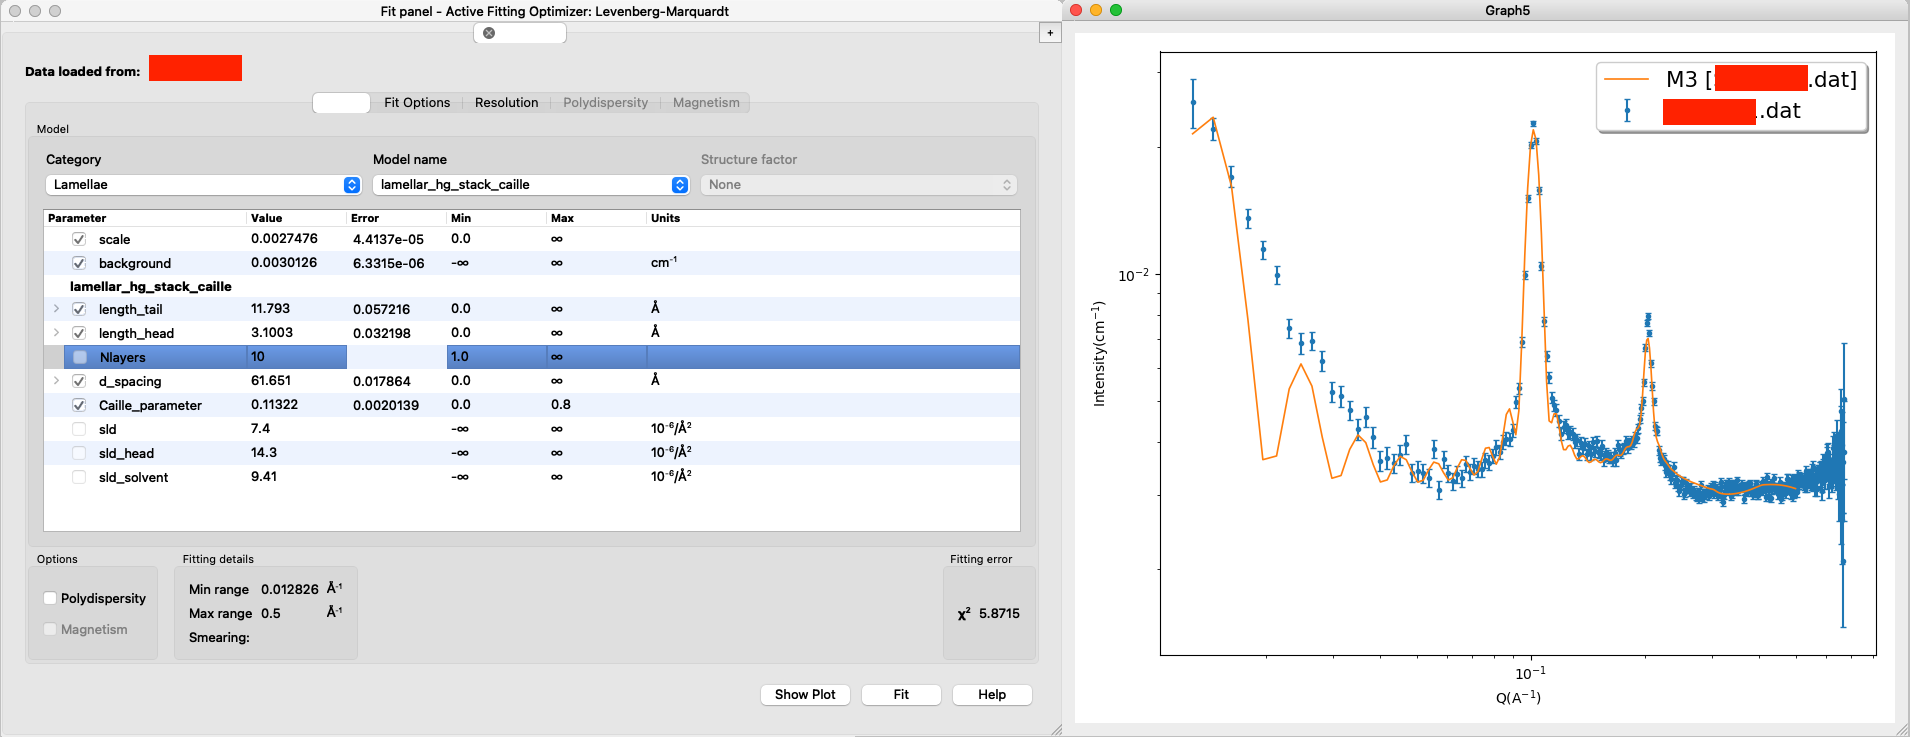
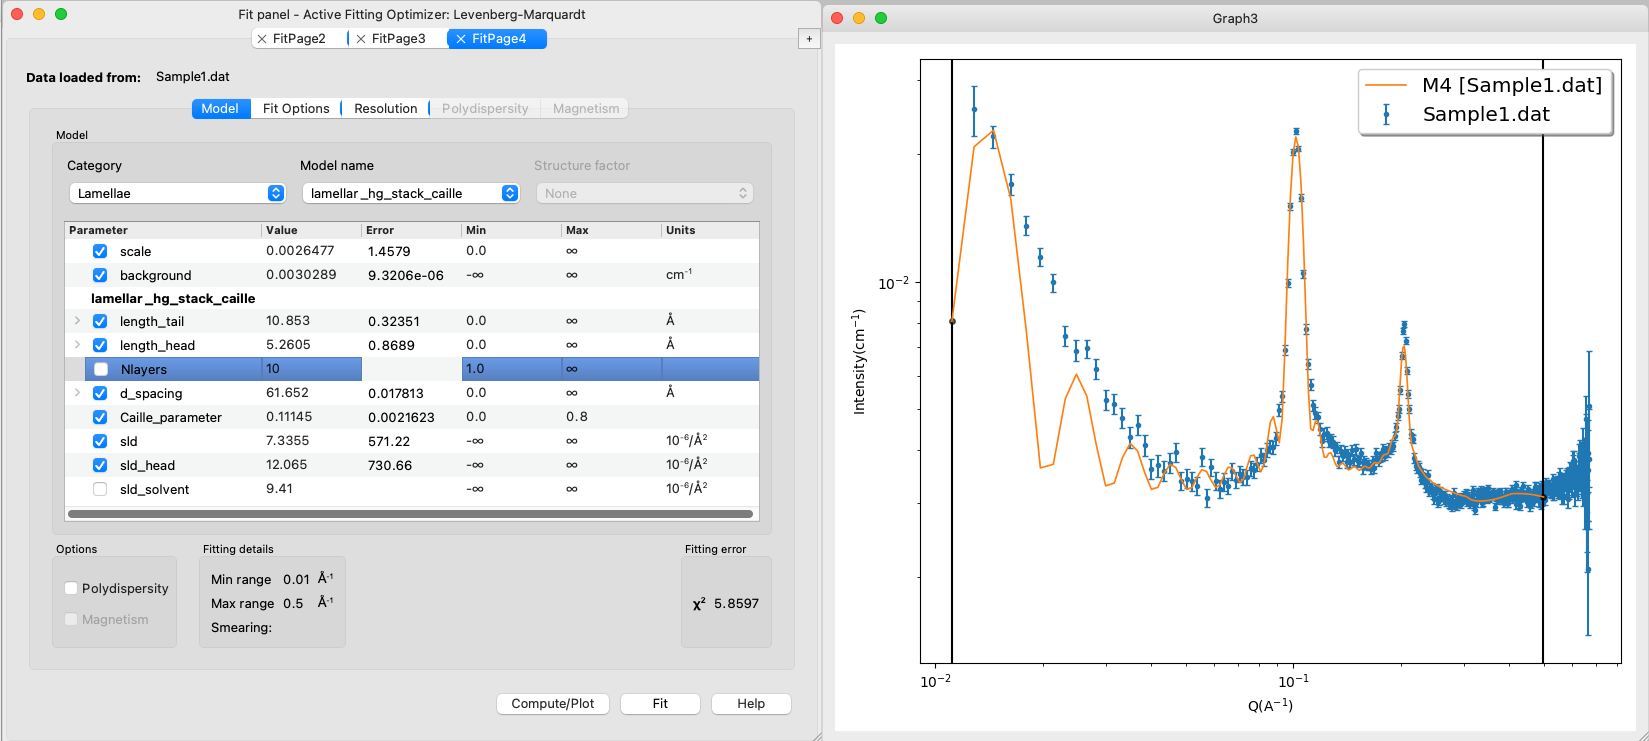
Add files via upload

diff --git a/Lamellae/Lamellae.html b/Lamellae/Lamellae.html
@@ -61,23 +61,31 @@
 	<p>The molecular volumes can be determined experimentally and are 30 Å<sup>3</sup> for H<sub>2</sub>O, 325 Å<sup>3</sup> for DPPC head grops and 969 Å<sup>3</sup> for DPPC tail groups. Use SasView Density/Volume calculator (Tool -> Density/Volume calculator) to get the mass densities. You need to type in the chemical formula and molar volume - be aware of unit conversion <a href="hint2.html" target="_blank">(Hint)</a>.</p>
 	<img src="SasView_DensityVolumeCalculator.png" style="width:250px"/>
 	<p>Then use SasView SLD calculator to get the SLD values for solvent, head and tail group <a href="SLD_SasView.xlsx">(Solution)</a>.</p>
-	<p>Use the SasView models <a href="https://www.sasview.org/docs/user/models/lamellar_hg.html" target="_blank">lamellar_hg</a> (unilamellar vesicles) and <a href="https://www.sasview.org/docs/user/models/lamellar_hg_stack_caille.html" target="_blank">lamellar_hg_stack_caille</a> (multilamellar vesiceles) to fit the data. </p>
-	<p>Select one dataset, press "Send data to" and select "Fitting" in the menu. Choose one of the models (under the category: Lamellae).</p>
-	<p>Before you fit the data, try to type in reasonable values for all parameters. DPPC has a tail length of 10-15 Å and a head length of 2-5 Å.</p>
+	<p>Use the SasView models <a href="https://www.sasview.org/docs/user/models/lamellar_hg.html" target="_blank">lamellar_hg</a> (unilamellar vesicles) or <a href="https://www.sasview.org/docs/user/models/lamellar_hg_stack_caille.html" target="_blank">lamellar_hg_stack_caille</a> (multilamellar vesiceles) to fit the data. Start with Sample2.dat, is this has the least features (see Part 1). </p>
+	<p>Select the dataset, press "Send data to" and select "Fitting" in the menu. Choose one of the models (under the category: Lamellae). Always start with the simplest (in this case, that is <a href="https://www.sasview.org/docs/user/models/lamellar_hg.html" target="_blank">lamellar_hg</a>, unilamellar vesicles). You can add complexity if the simpler model does not fit data.</p>
+	<p>Before you fit the data, type in reasonable values for all parameters. DPPC has a tail length of 10-15 Å and a head length of 2-5 Å.</p>
 	<p>When fitting a model to SAXS data, you would often not fit all parameters at once, you may follow this "protocol":</p>
 	<ul>
-	<li>For the model <a href="https://www.sasview.org/docs/user/models/lamellar_hg_stack_caille.html" target="_blank">lamellar_hg_stack_caille</a> (multilamellar vesiceles), estimate a good initial value for d (see Part 2) and Nlayers (see Part 3).</li>
-	<li>Calculate the scattering from the model (no fitting yet) by pressing "Show plot". Try to fit scale and backbround (set a check-mark there and press "Fit").</li>
+	<li>Calculate the scattering from the model (no fitting yet) by pressing "Show plot". </li>
+	<li>Fit fit scale and backbround (set a check-mark there and press "Fit"). Keep other parameters fixed</li>
 	<li>You may try to vary the parameters one at a time and press "Show Plot" to investigate what effect it has on the calculated scattering.</li>
-	<li>For the model <a href="https://www.sasview.org/docs/user/models/lamellar_hg_stack_caille.html" target="_blank">lamellar_hg_stack_caille</a>, try to estimate d, by fitting this parameter together with scale and background and Caille_parameter.</li>
-	<li>(OBS: the model <a href="https://www.sasview.org/docs/user/models/lamellar_hg_stack_caille.html" target="_blank">lamellar_hg_stack_caille</a> has a bug, so Nlayers cannot be fitted - try to vary it manually instead.)</li>
-	<li>Now, try to fit the length_tail and length_head.</li>
+	<li>Now, try to fit the length_tail and length_head (together with scale and background). This should give a reasonable fit.</li>
 	<li>In the end, you may try to refine the scattering lengths densities, that you calculated. They should not be too different from the calculated values. If you fit all SLDs (also solvent SLD), then you get "nan" as error-estimate on that parameter - why? (<a href="hint3.html" target="_blank">Hint</a>)</li>
     </ul>
+
+	<p>For the model <a href="https://www.sasview.org/docs/user/models/lamellar_hg_stack_caille.html" target="_blank">lamellar_hg_stack_caille</a> (multilamellar vesiceles), there are some additional steps in the protocol:
+	<ul>
+	<li>Ignore the first point, by setting qmin to 0.01 (under Fit Options). Ignore the last points by setting qmax=0.5</li>
+	<li>Before fitting, estimate a good initial value for d (see Part 2) and Nlayers (see Part 3).</p>
+	<li>Try to estimate d, by fitting this parameter together with scale and background and Caille_parameter.</li>
+	<li>(OBS: the model <a href="https://www.sasview.org/docs/user/models/lamellar_hg_stack_caille.html" target="_blank">lamellar_hg_stack_caille</a> has a bug, so Nlayers cannot be fitted - try to vary it manually instead.)</li>
+    <li>Then fit the length_tail and length_head</li>
+	<li>In the end, refine the scattering lengths densities.They should not be too different from the calculated values.</li>
+    </ul>
 	<p>The fit may look like this for one of the samples:</p>
-	<img src="SasView_multilamellar.png" style="width:1300px"/>
-	<p>And like this for the other sample:</p>
 	<img src="SasView_unilamellar.png" style="width:1300px"/>
+	<p>And like this for the other sample:</p>
+	<img src="SasView_multilamellar.png" style="width:1300px"/>
 	<p>Comments on the results. You may not get perfect fits (<a href="../reduced_chi2.html" target="_blank">reduced &chi; <sup>2</sup></a> is not unity) - this is ok. This means that the models are not perfect - how could the model be improved? (<a href="hint4.html" target="_blank">Hint</a>) </p>
 	<p>The goal was not to obtain perfect fits, but to answer relevant scientific questions: what phase does the two lipid mixtures form? - the models are sufficently good to answer that question. And to answer other questions, e.g., how does the structure change if we change temperature, lipid composition (e.g., a more biologically relevant compositions), concenttration, etc</p>
 
